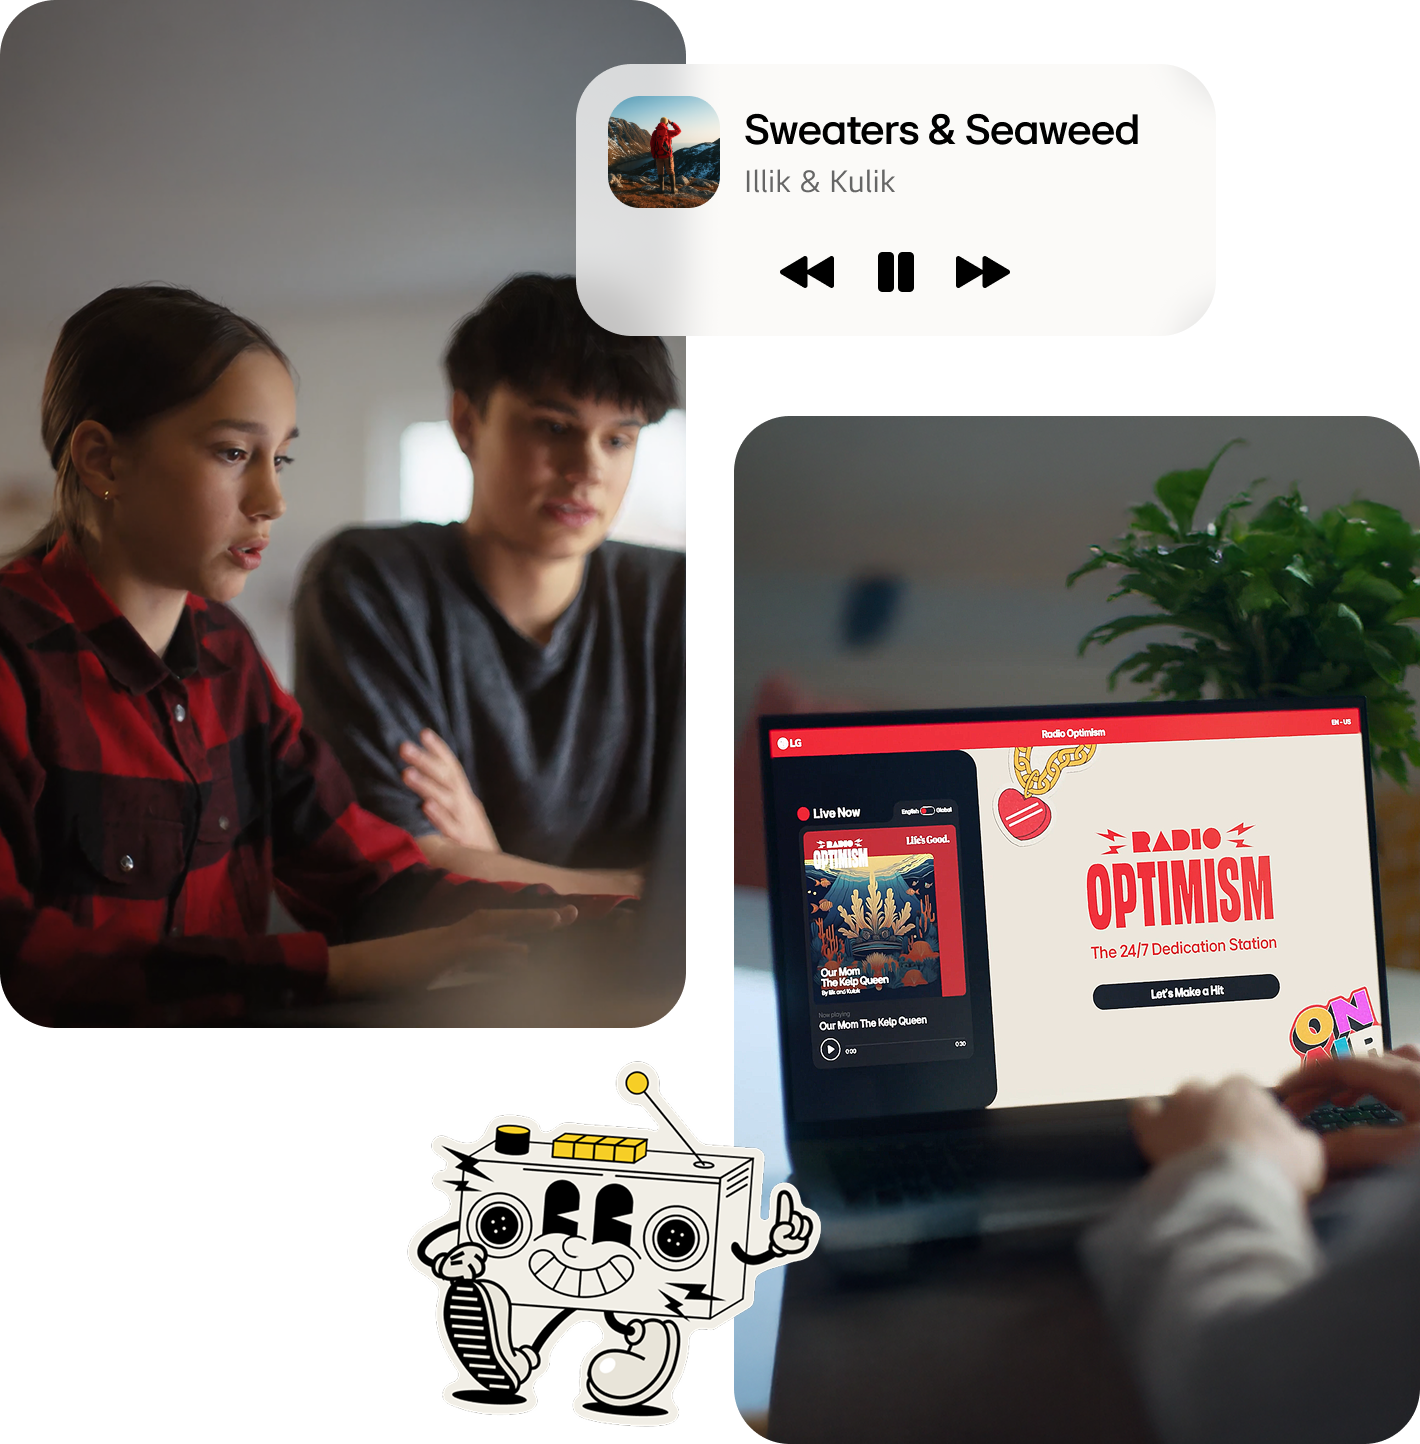
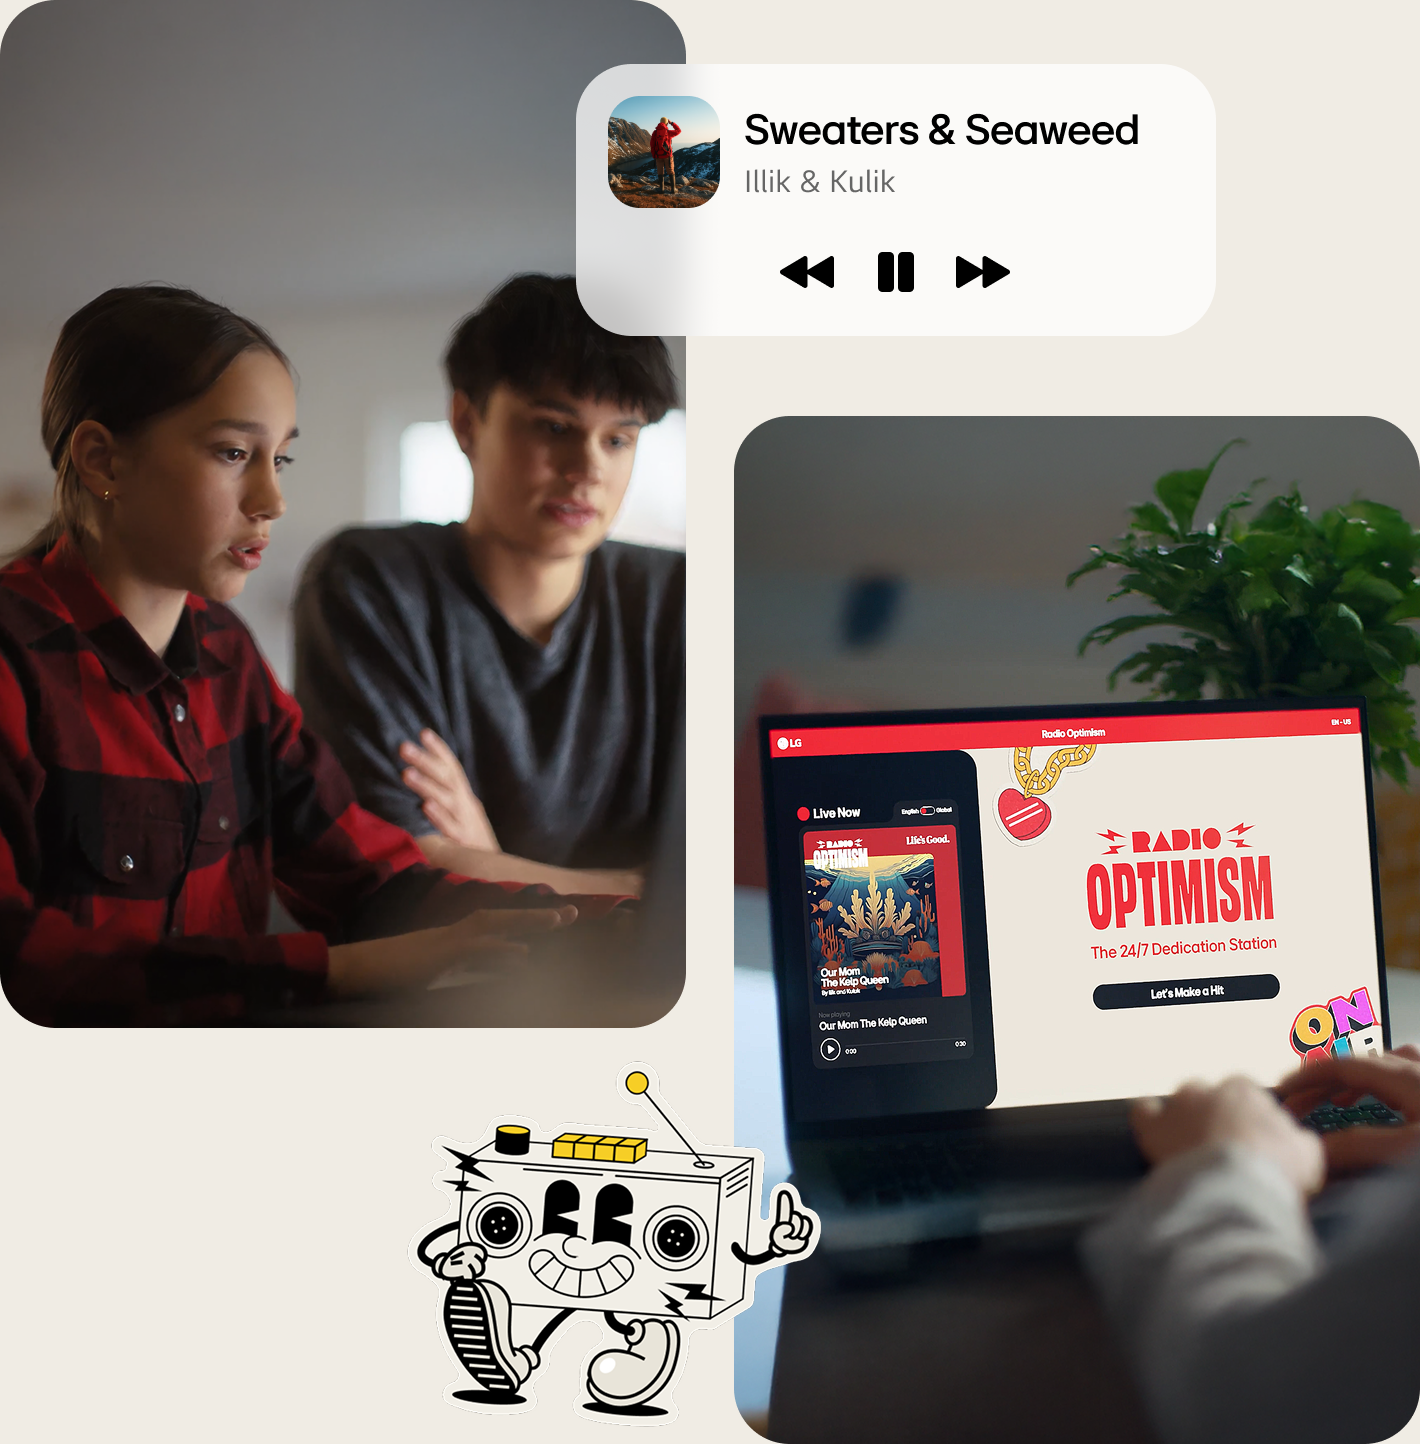
⚡ sample 최종본 업로드

Changed region(s): [[0.0, 0.0, 1.0, 1.0], [0.9606, 0.9661, 1.0, 1.0], [0.0, 0.0, 0.031, 0.0312]]

diff --git a/radio/sample/src/components/sound/sound.scss b/radio/sample/src/components/sound/sound.scss
@@ -472,85 +472,73 @@
                 }
             }
         }
-
         .swiper-navigation {
-            display: flex;
-            justify-content: space-between;
-            align-items: center;
-            gap: rem(16);
-            width: calc(100% - rem(16));
-            position: absolute;
-            transform: translate(-50%, -50%);
-            top: 50%;
-            left: 50%;
-            z-index: 2;
-
+          display: flex;
+          justify-content: space-between;
+          align-items: center;
+          gap: rem(16);
+          width: calc(100% - rem(32));
+          position: absolute;
+          transform: translate(-50%, -50%);
+          top: 50%;
+          left: 50%;
+          z-index: 2;
+          pointer-events: none;
+          @include tablet {
+            width: calc(100% - rem(48));
+          }
+          button {
+            width: rem(32);
+            height: rem(32);
+            border-radius: 50%;
+            background: rgba(217, 211, 200, 0.75);
+            backdrop-filter: blur(20px);
+            margin-top: 0;
+            position: static;
+            bottom: rem(24);
+            right: rem(24);
+            cursor: pointer;
+            transition: all 0.3s linear;
+            pointer-events: auto;
             @include tablet {
-                width: calc(100% - rem(72));
-                padding: 0 rem(16);
+              width: rem(48);
+              height: rem(48);
             }
-
-            button {
-                width: rem(32);
-                height: rem(32);
-                border-radius: 50%;
-                background: rgba(217, 211, 200, 0.75);
-                backdrop-filter: blur(10px);
-                margin-top: 0;
-                position: static;
-                bottom: rem(16);
-                right: rem(16);
-                cursor: pointer;
-                transition: all 0.3s linear;
-
-                @include tablet {
-                    width: rem(48);
-                    height: rem(48);
-
-                    bottom: rem(24);
-                    right: rem(24);
-                }
-
-                &::after {
-                    content: "";
-                    display: block;
-                    width: rem(16);
-                    height: rem(16);
-                    background-repeat: no-repeat;
-                    background-size: contain;
-                    background-position: center;
-                    position: absolute;
-                    transform: translate(-50%, -50%);
-                    top: 50%;
-                    left: 50%;
-
-                    @include tablet {
-                        width: rem(24);
-                        height: rem(24);
-                    }
-                }
-
-                &:hover {
-                    background: linear-gradient(0deg, rgba(255, 255, 255, 0.50) 0%, rgba(255, 255, 255, 0.50) 100%), rgba(217, 211, 200, 0.75);
-                }
-
-                &.swiper-button-prev {
-                    &::after {
-                        background-image: url("../images/lifes-good-campaign-2025-radio-optimism-lgcom-images-sound-next-icon.svg");
-                        transform: translate(-50%, -50%) rotate(180deg);
-                    }
-                }
-
-                &.swiper-button-next {
-                    &::after {
-                        background-image: url("../images/lifes-good-campaign-2025-radio-optimism-lgcom-images-sound-next-icon.svg");
-                    }
-                }
+            &::after {
+              content: "";
+              display: block;
+              width: rem(16);
+              height: rem(16);
+              background-repeat: no-repeat;
+              background-size: contain;
+              background-position: center;
+              position: absolute;
+              transform: translate(-50%, -50%);
+              top: 50%;
+              left: 50%;
+              @include tablet {
+                width: rem(24);
+                height: rem(24);
+              }
             }
-
-            @include desktop {
-                width: min(calc(63vw - rem(40)), rem(1152));
+            &:hover {
+              background: linear-gradient(0deg, rgba(255, 255, 255, 0.50) 0%, rgba(255, 255, 255, 0.50) 100%), rgba(217, 211, 200, 0.75);
             }
+            &.swiper-button-prev {
+              &::after {
+                background-image: url("../images/lifes-good-campaign-2025-radio-optimism-lgcom-images-how-to-next-icon.svg");
+                transform: translate(-50%, -50%) rotate(180deg);
+              }
+            }
+            &.swiper-button-next {
+              &::after {
+                background-image: url("../images/lifes-good-campaign-2025-radio-optimism-lgcom-images-how-to-next-icon.svg");
+              }
+            }
+          }
+          @include desktop {
+            width: rem(calc(1200 - 48));
+          }
         }
     }
 }

diff --git a/radio/sample/src/components/how-to/how-to.scss b/radio/sample/src/components/how-to/how-to.scss
@@ -56,7 +56,7 @@
     width: 100%;
     height: 100%;
     border-radius: 0;
-    background-color: #E5E3D9;
+    background-color: #E9E4DB;
     overflow: hidden;
     @include tablet {
       border-radius: 1.75rem;
@@ -188,6 +188,11 @@
         width: min(calc(100% - rem(100)), rem(640));
       }
     }
+    .swiper-slide {
+      @media (min-width: 1441px) {
+        width: 1200px;
+      }
+    }
     .swiper-slide-active {
       video {
         opacity: 1;
@@ -208,6 +213,7 @@
       top: 50%;
       left: 50%;
       z-index: 2;
+      pointer-events: none;
       @include tablet {
         width: calc(100% - rem(48));
       }
@@ -223,6 +229,7 @@
         right: rem(24);
         cursor: pointer;
         transition: all 0.3s linear;
+        pointer-events: auto;
         @include tablet {
           width: rem(48);
           height: rem(48);
@@ -260,7 +267,7 @@
         }
       }
       @include desktop {
-        width: min(calc(63vw - rem(40)), rem(1152));
+        width: rem(calc(1200 - 48));
       }
     }
   }

diff --git a/radio/sample/src/assets/js/how-to.js b/radio/sample/src/assets/js/how-to.js
@@ -63,9 +63,13 @@ function howTo() {
     },
     breakpoints: {
       1441: {
-        slidesPerView: 1.6,
+        slidesPerView: "auto",
         spaceBetween: 24,
       },
+      1921: {
+        slidesPerView: "auto",
+        spaceBetween: 24,
+      }
     },
     on: {
       init: function() {
